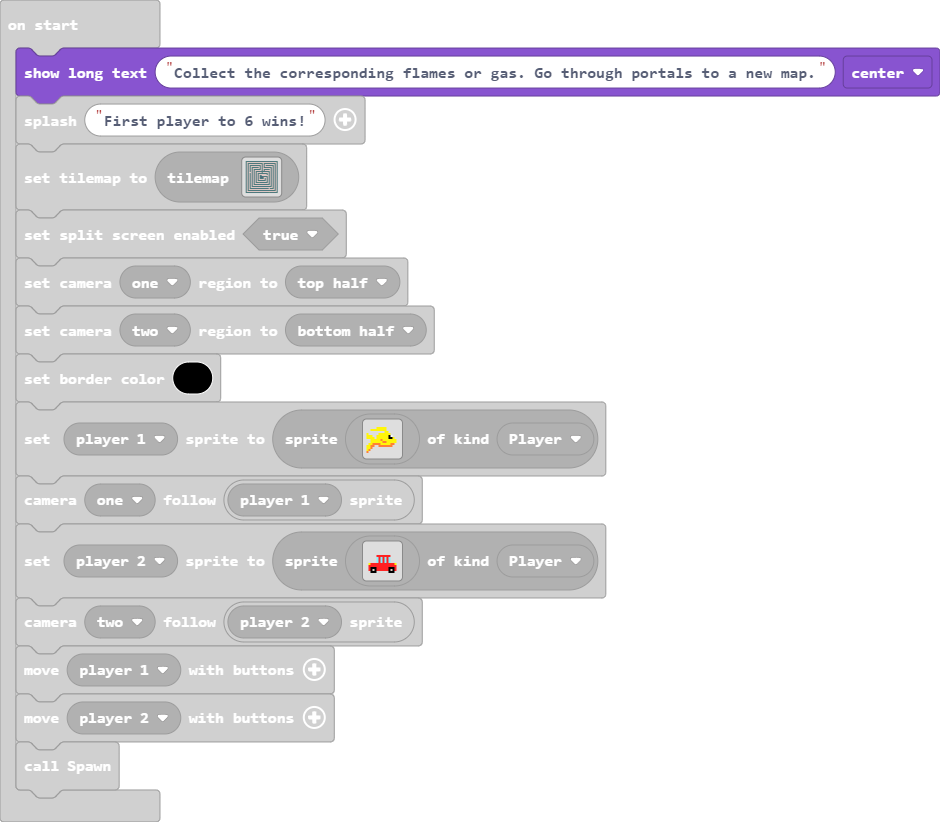
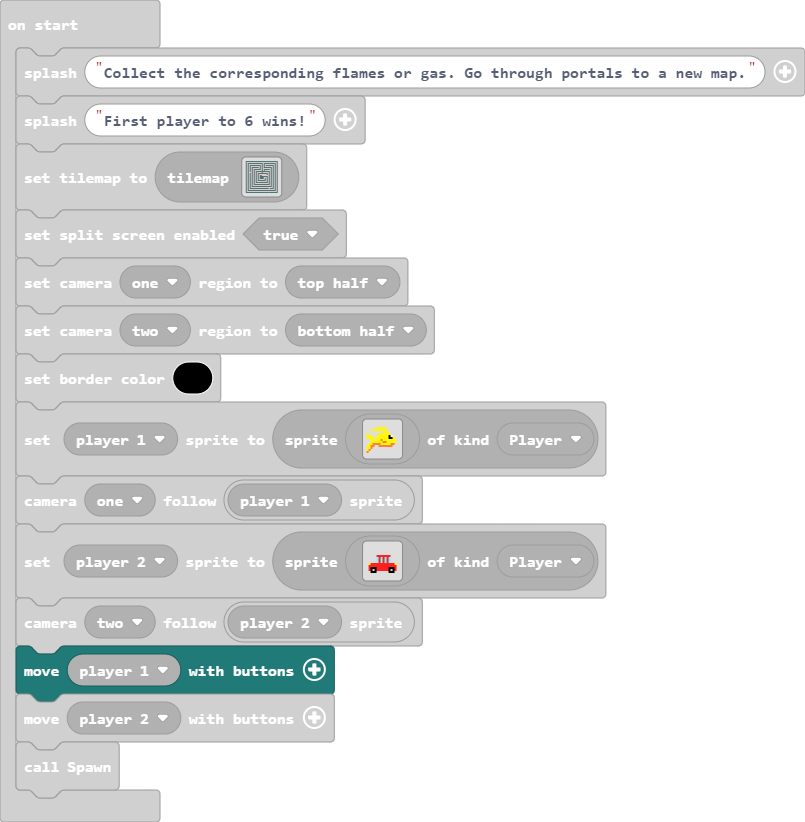
Update main.blocks, tilemap.g.jres, tilemap.g.ts

Changed region(s): [[0.0, 0.0, 1.0, 1.0]]

diff --git a/tilemap.g.ts b/tilemap.g.ts
@@ -300,6 +300,25 @@ namespace myTiles {
 . . . . . . . . . . . . . . . . 
 . . . . . . . . . . . . . . . . 
 `, [myTiles.transparency16], TileScale.Sixteen);
+            case "level14":
+            case "level14":return tiles.createTilemap(hex`1000100000000000000000000000000000000000000000000000000000000000000000000000000000000000000000000000000000000000000000000000000000000000000000000000000000000000000000000000000000000000000000000000000000000000000000000000000000000000000000000000000000000000000000000000000000000000000000000000000000000000000000000000000000000000000000000000000000000000000000000000000000000000000000000000000000000000000000000000000000000000000000000000000000000000000000000000000000000000000000000000000000000000000000000000000000000000`, img`
+. . . . . . . . . . . . . . . . 
+. . . . . . . . . . . . . . . . 
+. . . . . . . . . . . . . . . . 
+. . . . . . . . . . . . . . . . 
+. . . . . . . . . . . . . . . . 
+. . . . . . . . . . . . . . . . 
+. . . . . . . . . . . . . . . . 
+. . . . . . . . . . . . . . . . 
+. . . . . . . . . . . . . . . . 
+. . . . . . . . . . . . . . . . 
+. . . . . . . . . . . . . . . . 
+. . . . . . . . . . . . . . . . 
+. . . . . . . . . . . . . . . . 
+. . . . . . . . . . . . . . . . 
+. . . . . . . . . . . . . . . . 
+. . . . . . . . . . . . . . . . 
+`, [myTiles.transparency16], TileScale.Sixteen);
         }
         return null;
     })
